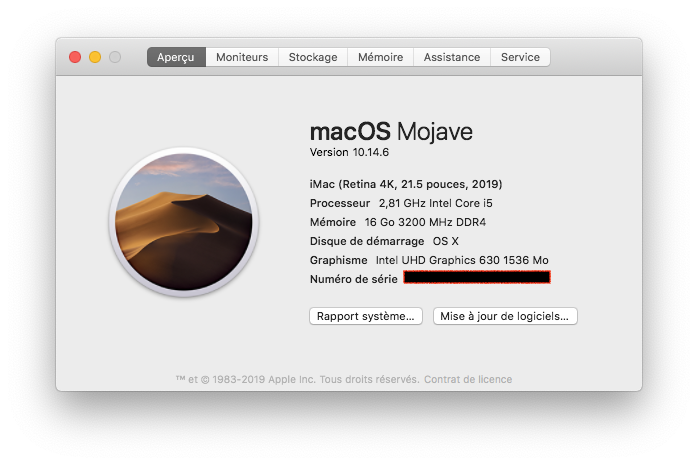
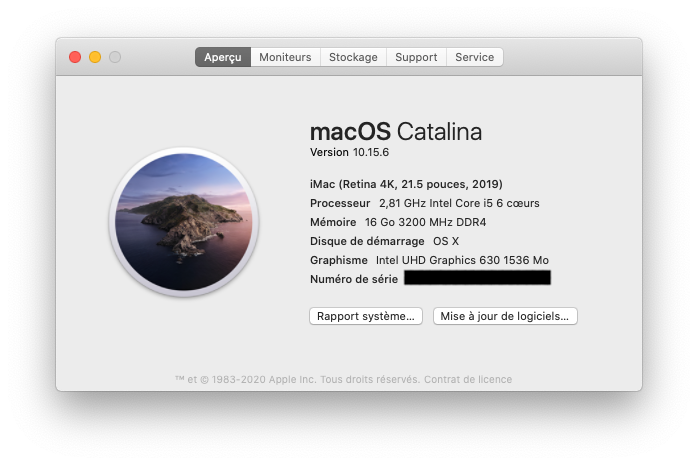
Updated to Catalina

diff --git a/README.md b/README.md
@@ -1,10 +1,20 @@
 # Hackintosh
 
+A Hackintosh running macOS 10.15.6 with a i5-8400 and a Gigabyte Z370-HD3P.
+
 ![System spec](https://raw.githubusercontent.com/kinoute/Hack-Z370-HD3P-i5-8400/master/Pictures/system.png)
+
+## Status
+
+I recently updated my Hackintosh from Mojave 10.14.6 to Catalina 10.15.6. **My files available here work on both platforms**. I actually didn't change anything in my `config.plist`.
+
+**Important:** If you wish to upgrade to Catalina just like I did, the only thing you need to do is to install/use a recent version of Clover, at least Clover v5.0 r5107. I personally use [Clover v5.0 r5119](https://github.com/Dids/clover-builder/releases/tag/v5.0_r5119).
+
+## Motivation
 
 I built my Hackintosh because I was disappointed with the price of the new Mac Mini 2018. Its configuration is close to the new mid-entry Mac Mini but with more RAM (16 instead of 8 Gb). Here are the specs:
 
-- MacOS Mojave 10.14.6
+- macOS Catalina 10.15.6
 - Intel i5-8400 (6 cores @ 2.80 Ghz, 3.80 Ghz Turbo Boost)
 - Gigabyte Z370-HD3P
 - Corsair Vengeance LPX 16Gb (2x8Gb) DDR4 2666MHz OC @ 3200 Mhz (CMK16GX4M2A2666C16)
@@ -33,7 +43,7 @@ This is already done in my `config.plist` available in this repo as of April 30t
 
 ## My EFI
 
-* **Clover version**: v2.5k r5070
+* **Clover version**: v5.0 r5119
 * **UEFI Drivers** (now located in `EFI/Clover/drivers/UEFI`):
     - _ApfsDriverLoader.efi_
     - _AptioMemoryFix.efi_
@@ -90,16 +100,22 @@ To use the sound inputs/ouputs of this motherboard, I did:
 
 ![](Pictures/sound-2.png)
 
-## Future & Catalina
+## Font on non-retina displays
 
-With OpenCore getting better every day, it could be interesting to switch and also upgrade to Catalina. But as I still have to deal with a few 32-bits applications or plug-ins, I can't upgrade to 10.15 for now.
+For some people, after upgrading to Catalina, the font can look blurry or too thin on non-retina displays. I use a very old 24" 1080p monitor and I encountered this problem.
 
-Nevertheless, this config should get you a working setup on Catalina with a few minors changes.
+To get a somewhat similar font rendering as before, you can use these following two command lines that you have to type in your Terminal:
+
+```bash
+defaults -currentHost delete -globalDomain AppleFontSmoothing
+defaults write -g CGFontRenderingFontSmoothingDisabled -bool YES
+```
+
+Then restart your Hackintosh. It should look better.
 
 ## Benchmarks
 
 ![Geekbench](https://raw.githubusercontent.com/kinoute/Hack-Z370-HD3P-i5-8400/master/Pictures/geekbench.png)
 
-Link: https://browser.geekbench.com/v4/cpu/14018360
-
+Link: https://browser.geekbench.com/v4/cpu/15697612
 
